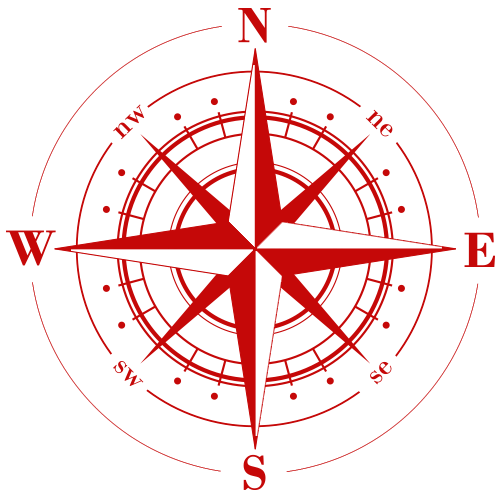
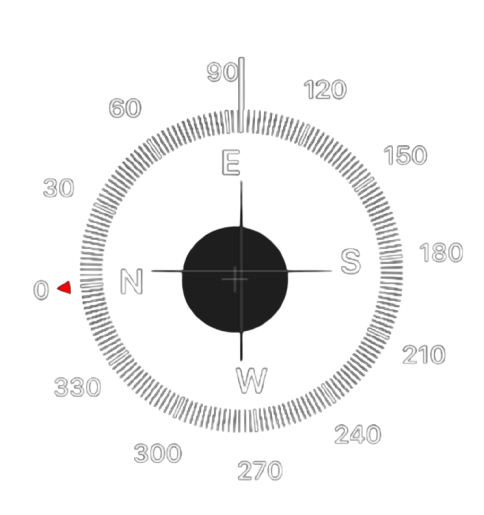
chore: updated minging compass

diff --git a/src/Pages/3DMap/index.tsx b/src/Pages/3DMap/index.tsx
@@ -745,8 +745,8 @@ export const THREEJSMap = forwardRef<HTMLDivElement, THREEJSMapProps>(({children
                     <div ref={localMapContainerRef} style={{ height: height ? height : "calc(100%)", width: width ? width : '100%', opacity: isLoading ? '0.05' : '1'}}>
                         {children}
                     </div>
-                    <div id="compassContainer" style={{position: 'absolute', top: '10px', right: '10px', opacity: isLoading ? 0.1 : 1, borderRadius: '50%'}}>
-                        <img id={'compass'} width={120} src={COMPASS} style={{transformOrigin: 'center center', filter: 'invert(1)'}}></img>
+                    <div id="compassContainer" style={{position: 'absolute', top: '10px', right: '10px', opacity: isLoading ? 0.1 : 1, borderRadius: '50%', background: '#FFF2'}}>
+                        <img id={'compass'} width={160} src={COMPASS} style={{transformOrigin: 'center center', filter: 'sepia(1)'}}></img>
                     </div>
                     <div id='tooltipRef' style={{display: showToolTip ? 'block' : 'none'}} className='geofence-tooltip'>
                         <table
